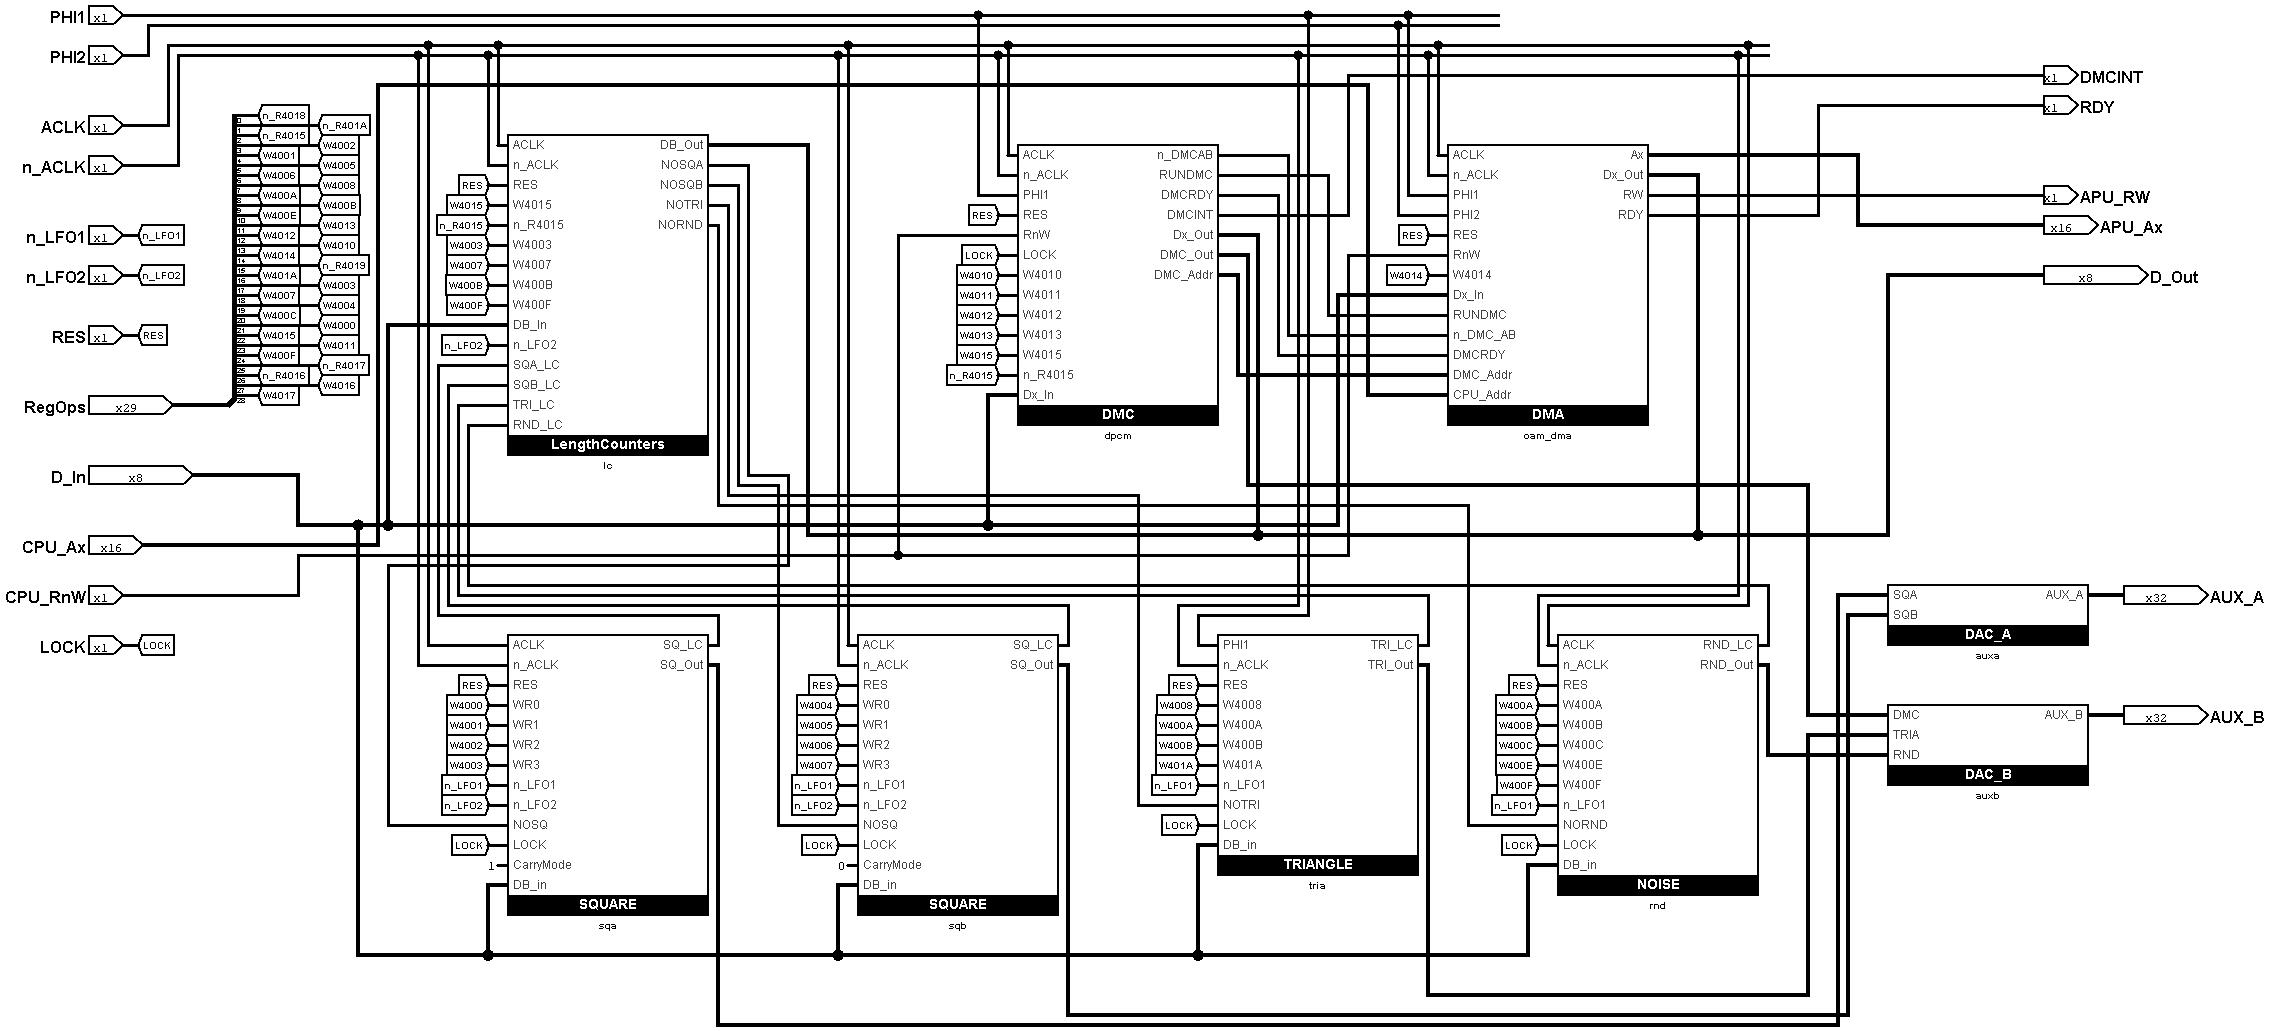
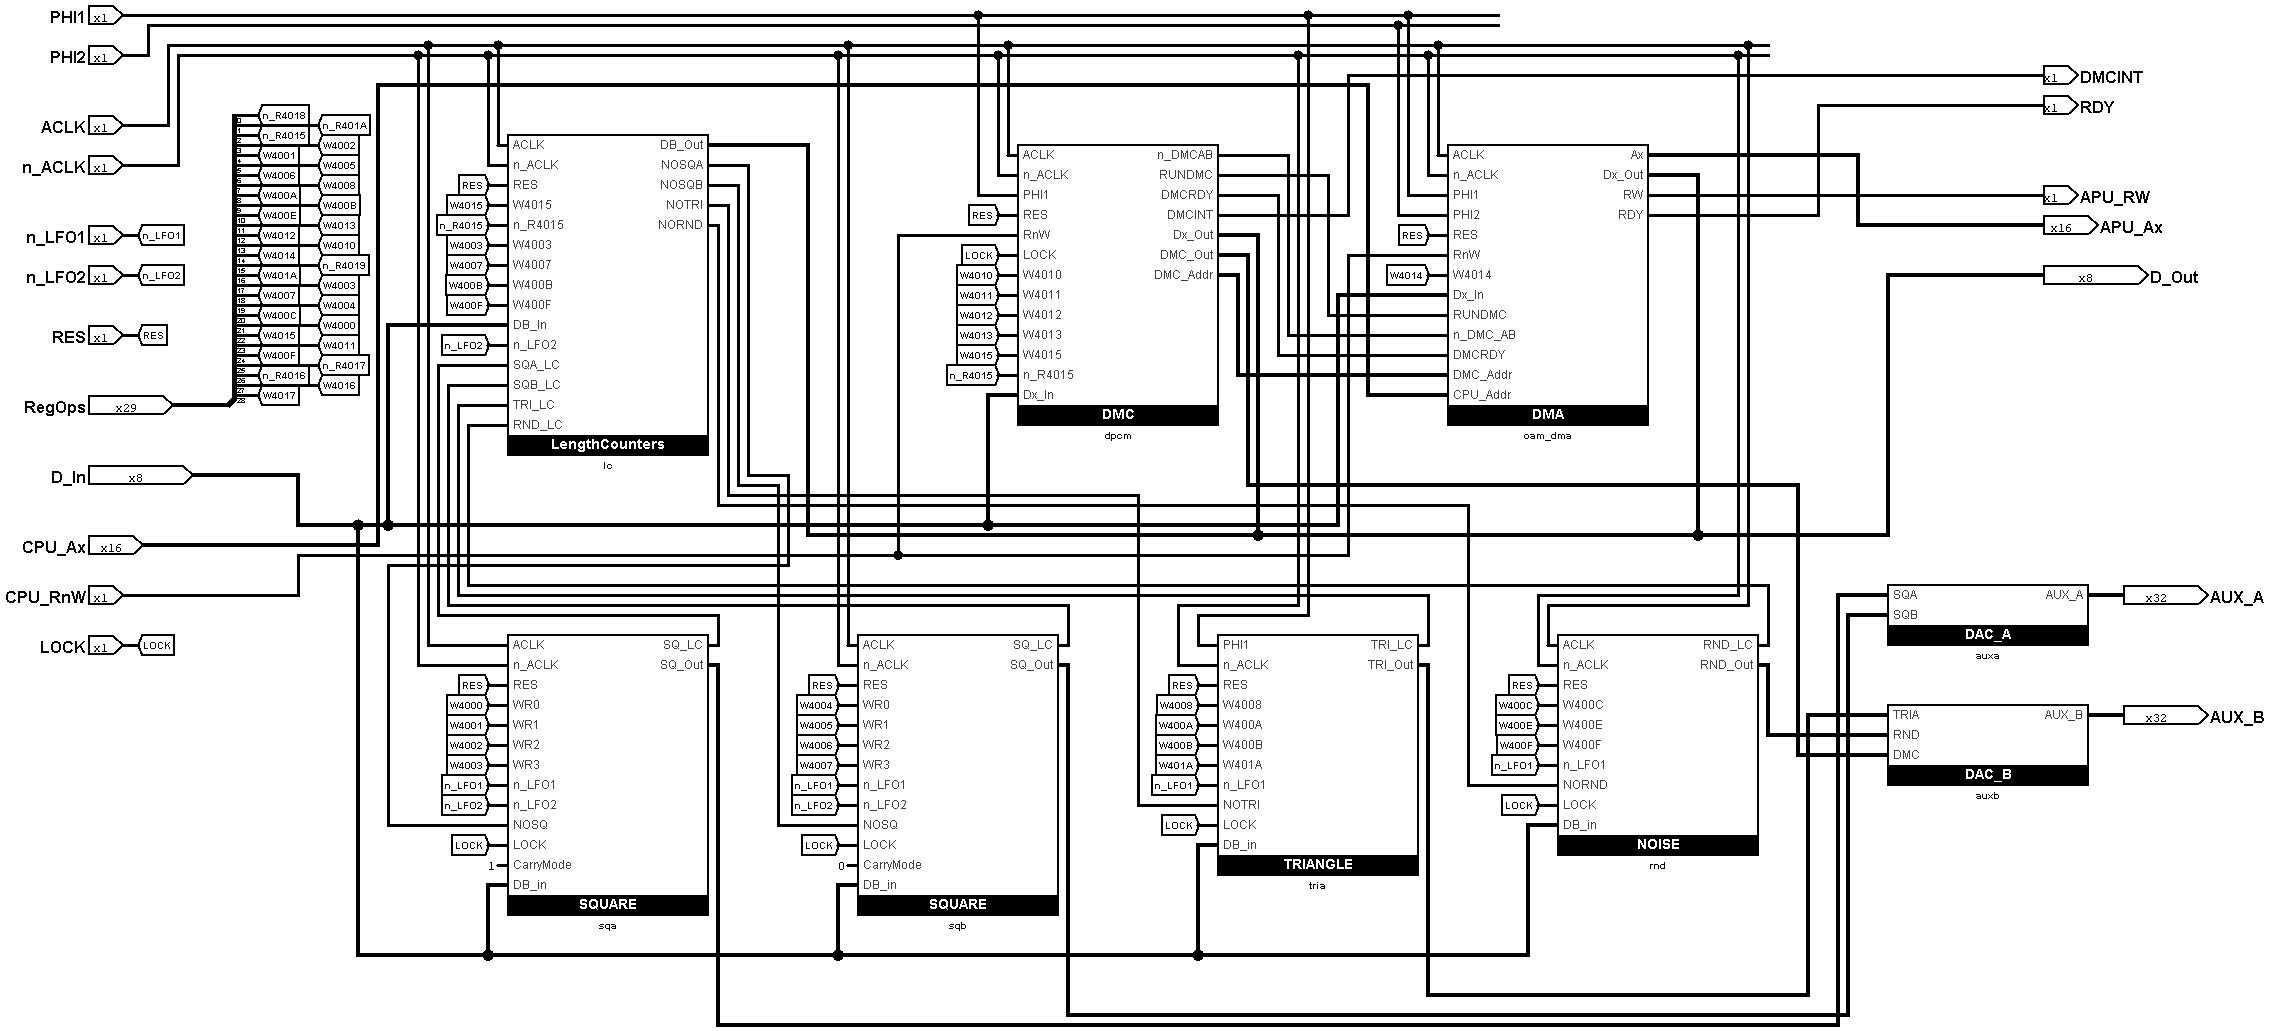
Removed redundand W400A/B from Noise channel schematics

Changed region(s): [[0.6476, 0.7139, 0.7709, 0.8691], [0.7709, 0.4656, 0.8018, 0.7449]]

diff --git a/BreakingNESWiki_DeepL/APU/sound.md b/BreakingNESWiki_DeepL/APU/sound.md
@@ -11,6 +11,8 @@ All circuits for generating sound are, for the most part, various counters contr
 
 ![SoundGenerators](/BreakingNESWiki/imgstore/apu/SoundGenerators.jpg)
 
+(In addition to the audio generators themselves, the diagram also shows the OAM DMA, as it interacts closely with the DPCM DMA).
+
 ## Timing
 
 The sound generators are clocked by the following signals:
